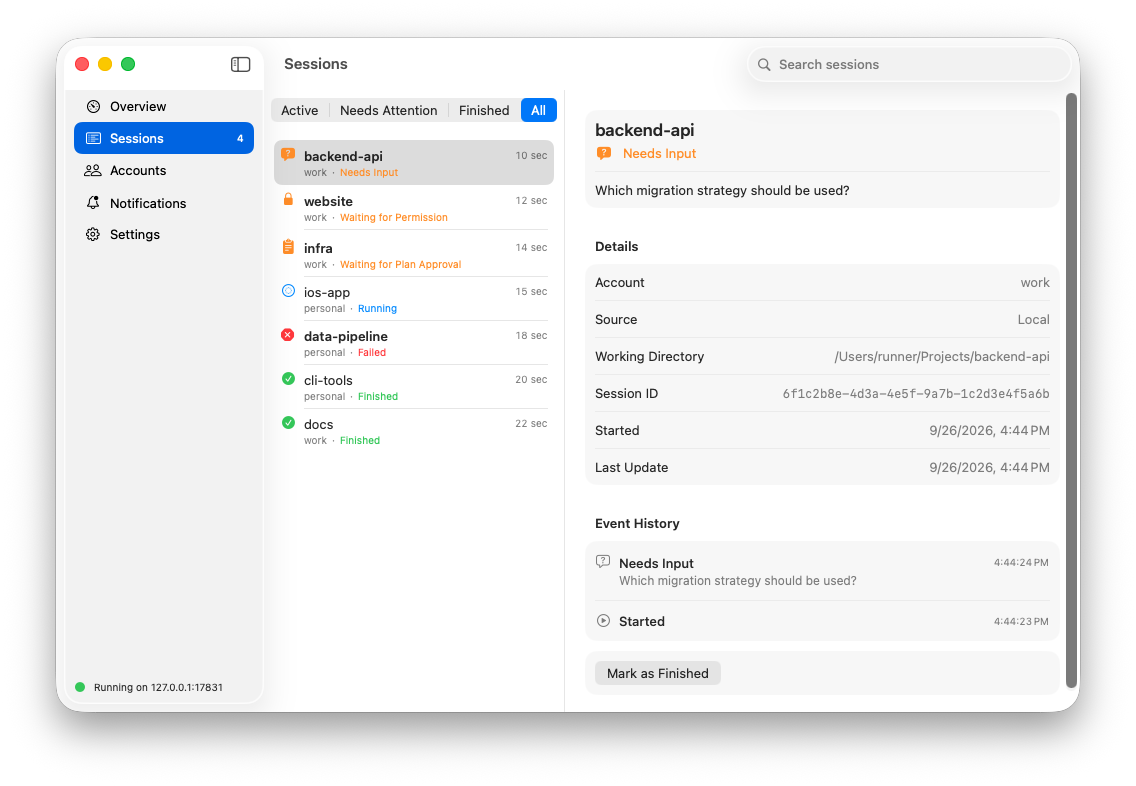
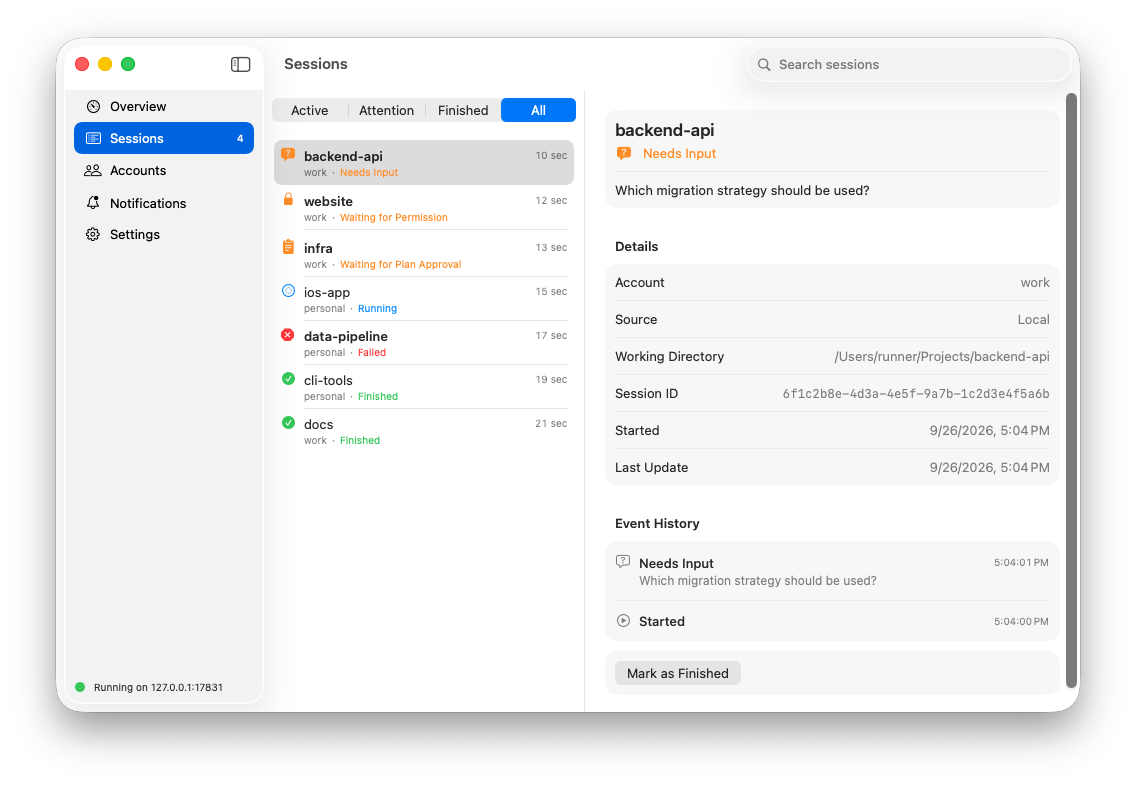
Sessions filter: fall back to a pop-up menu when segments don't fit
ViewThatFits keeps the segmented control where it fits the list column and
switches to a menu picker otherwise, so larger control metrics on newer
macOS versions cannot overflow into the detail pane. Refresh the Sessions
README screenshot.

Claude-Session: https://claude.ai/code/session_01Gdv3JYcc92WanDycQLDrMf

diff --git a/ClaudeWatch/Features/Sessions/SessionsView.swift b/ClaudeWatch/Features/Sessions/SessionsView.swift
@@ -24,15 +24,12 @@ struct SessionsView: View {
         @Bindable var appState = appState
         HStack(spacing: 0) {
             VStack(spacing: 0) {
-                Picker("Filter", selection: $appState.sessionFilter) {
-                    ForEach(SessionFilter.allCases) { filter in
-                        Text(filter.segmentTitle)
-                            .help(filter.title)
-                            .tag(filter)
-                    }
+                // Segmented when it fits the column; a pop-up menu otherwise, so wider
+                // control metrics on newer macOS versions never overflow into the detail pane.
+                ViewThatFits(in: .horizontal) {
+                    filterPicker.pickerStyle(.segmented)
+                    filterPicker.pickerStyle(.menu).fixedSize()
                 }
-                .pickerStyle(.segmented)
-                .labelsHidden()
                 .frame(maxWidth: .infinity)
                 .padding(8)
 
@@ -79,6 +76,18 @@ struct SessionsView: View {
         } message: { session in
             Text(verbatim: "\(session.projectName) · \(session.displayAccount)")
         }
+    }
+
+    private var filterPicker: some View {
+        @Bindable var appState = appState
+        return Picker("Filter", selection: $appState.sessionFilter) {
+            ForEach(SessionFilter.allCases) { filter in
+                Text(filter.segmentTitle)
+                    .help(filter.title)
+                    .tag(filter)
+            }
+        }
+        .labelsHidden()
     }
 
     @ViewBuilder
